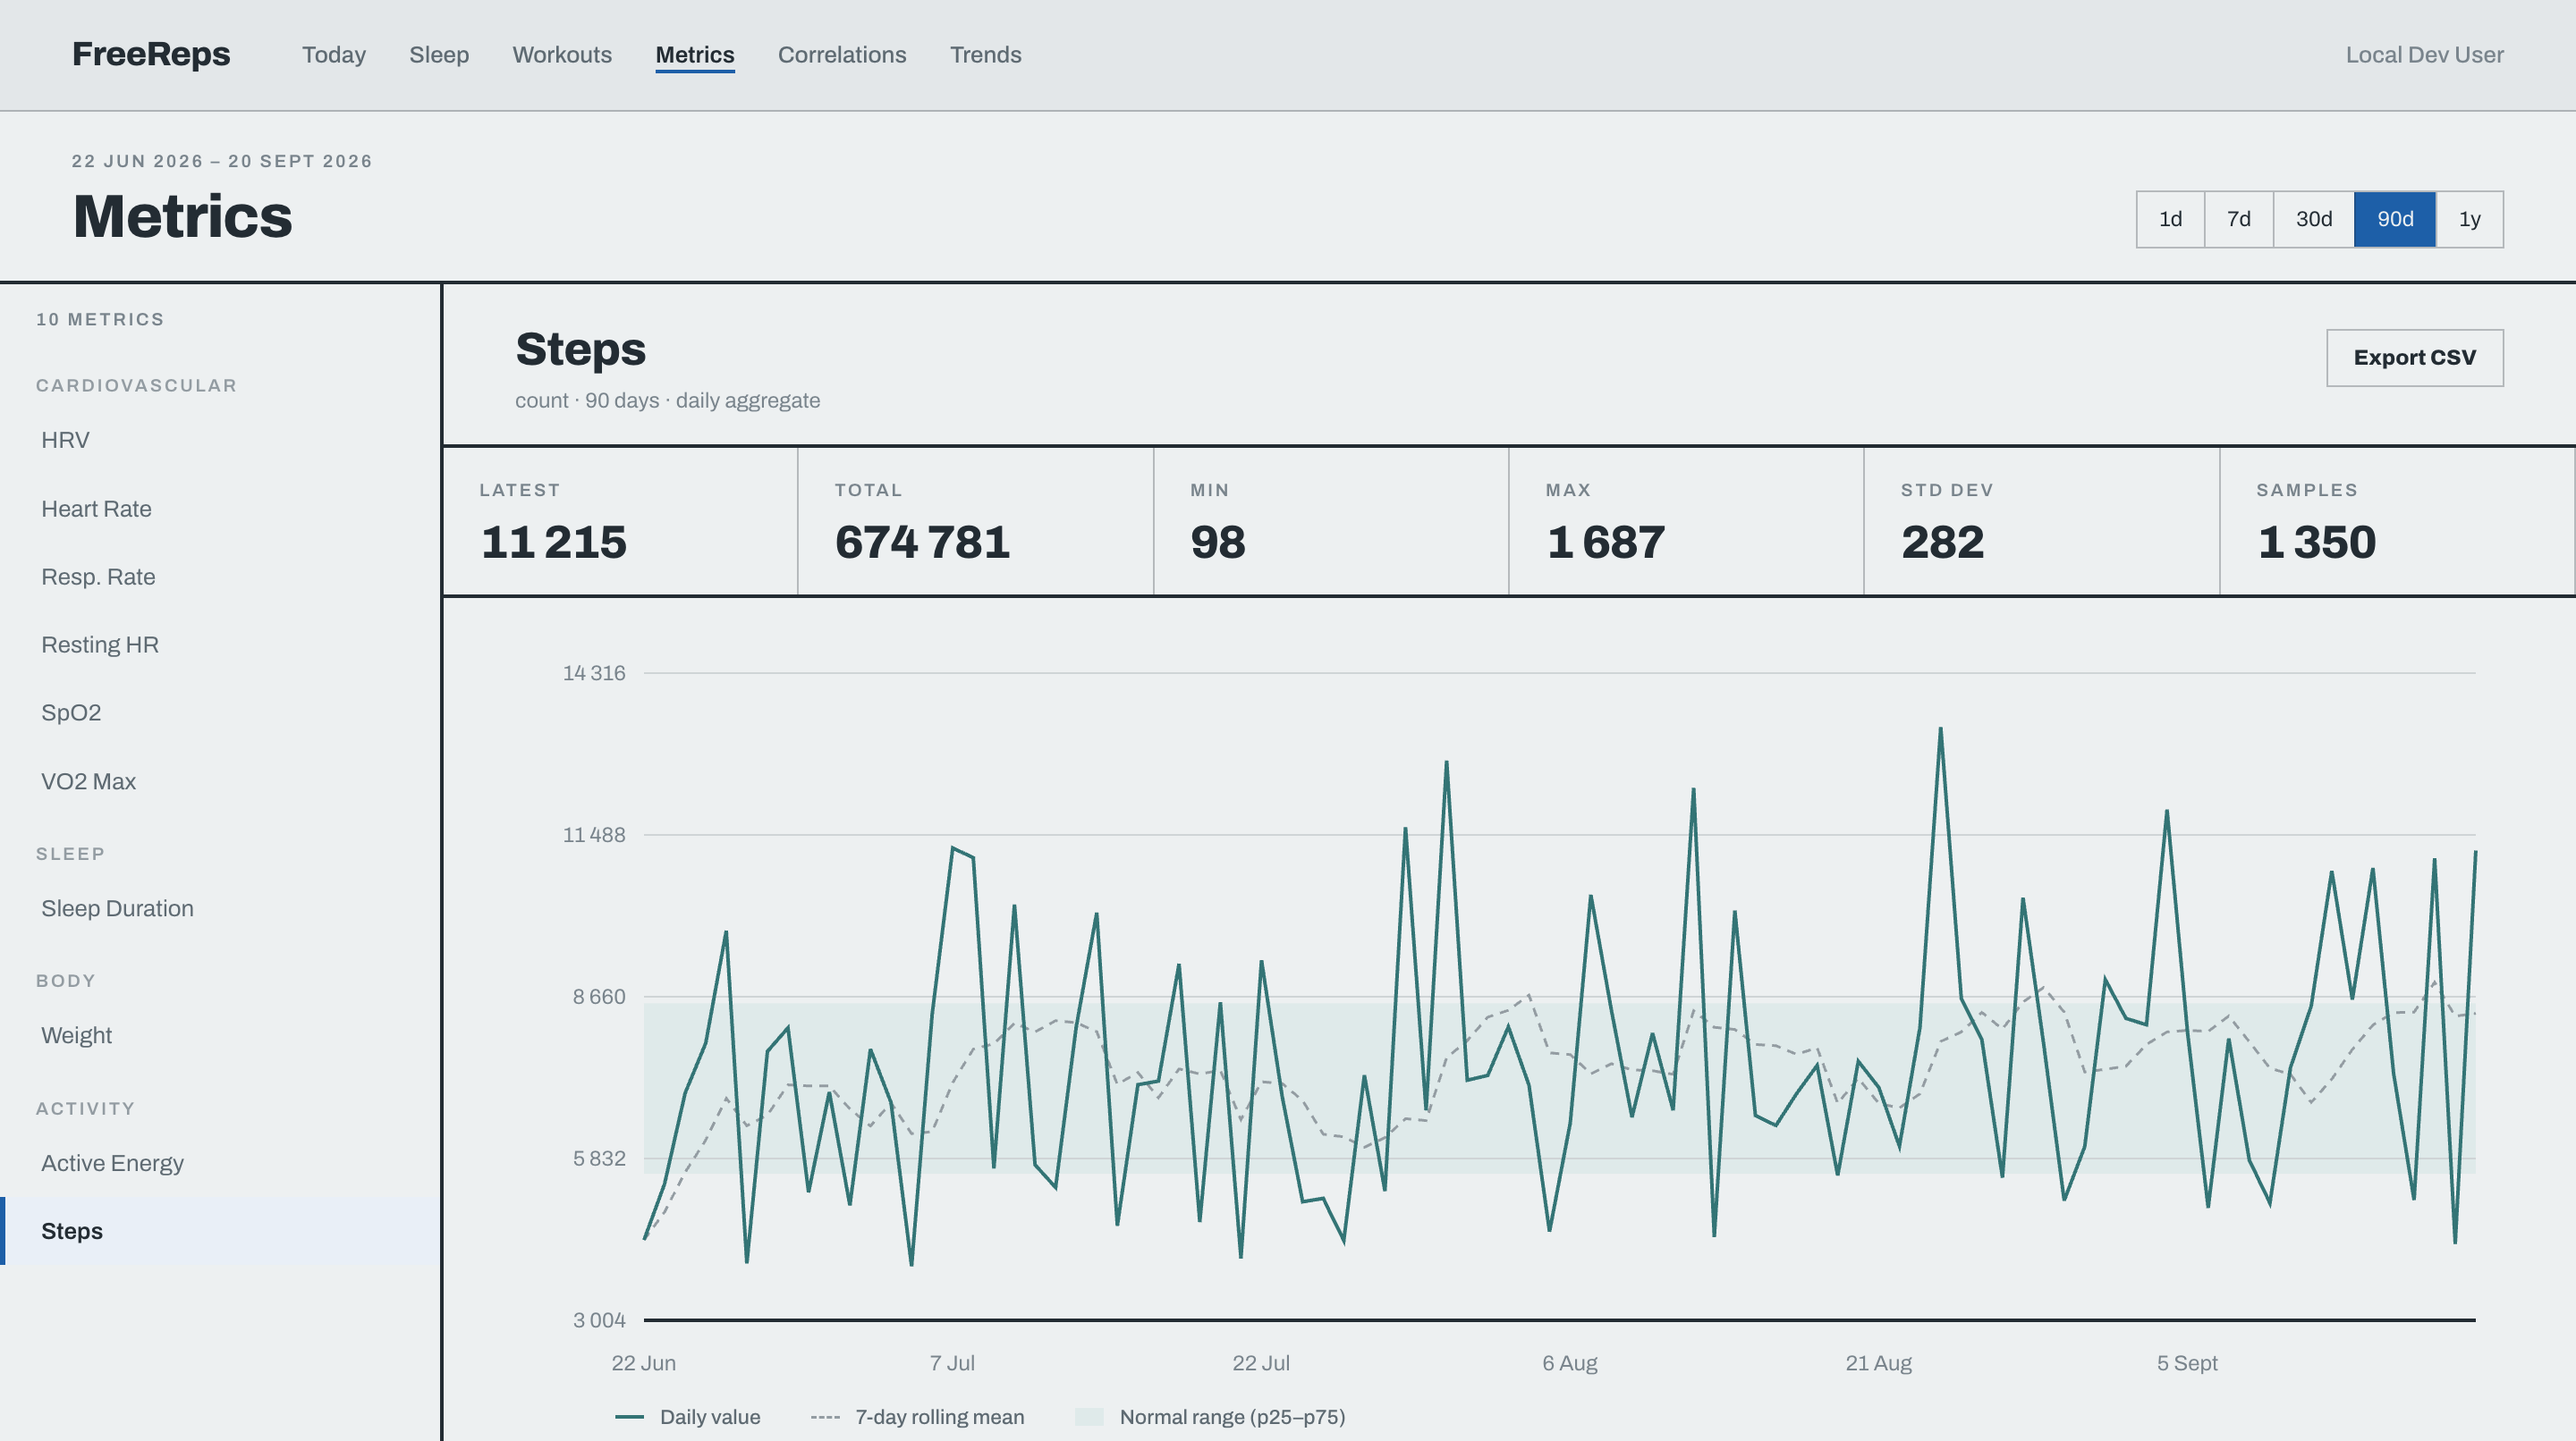
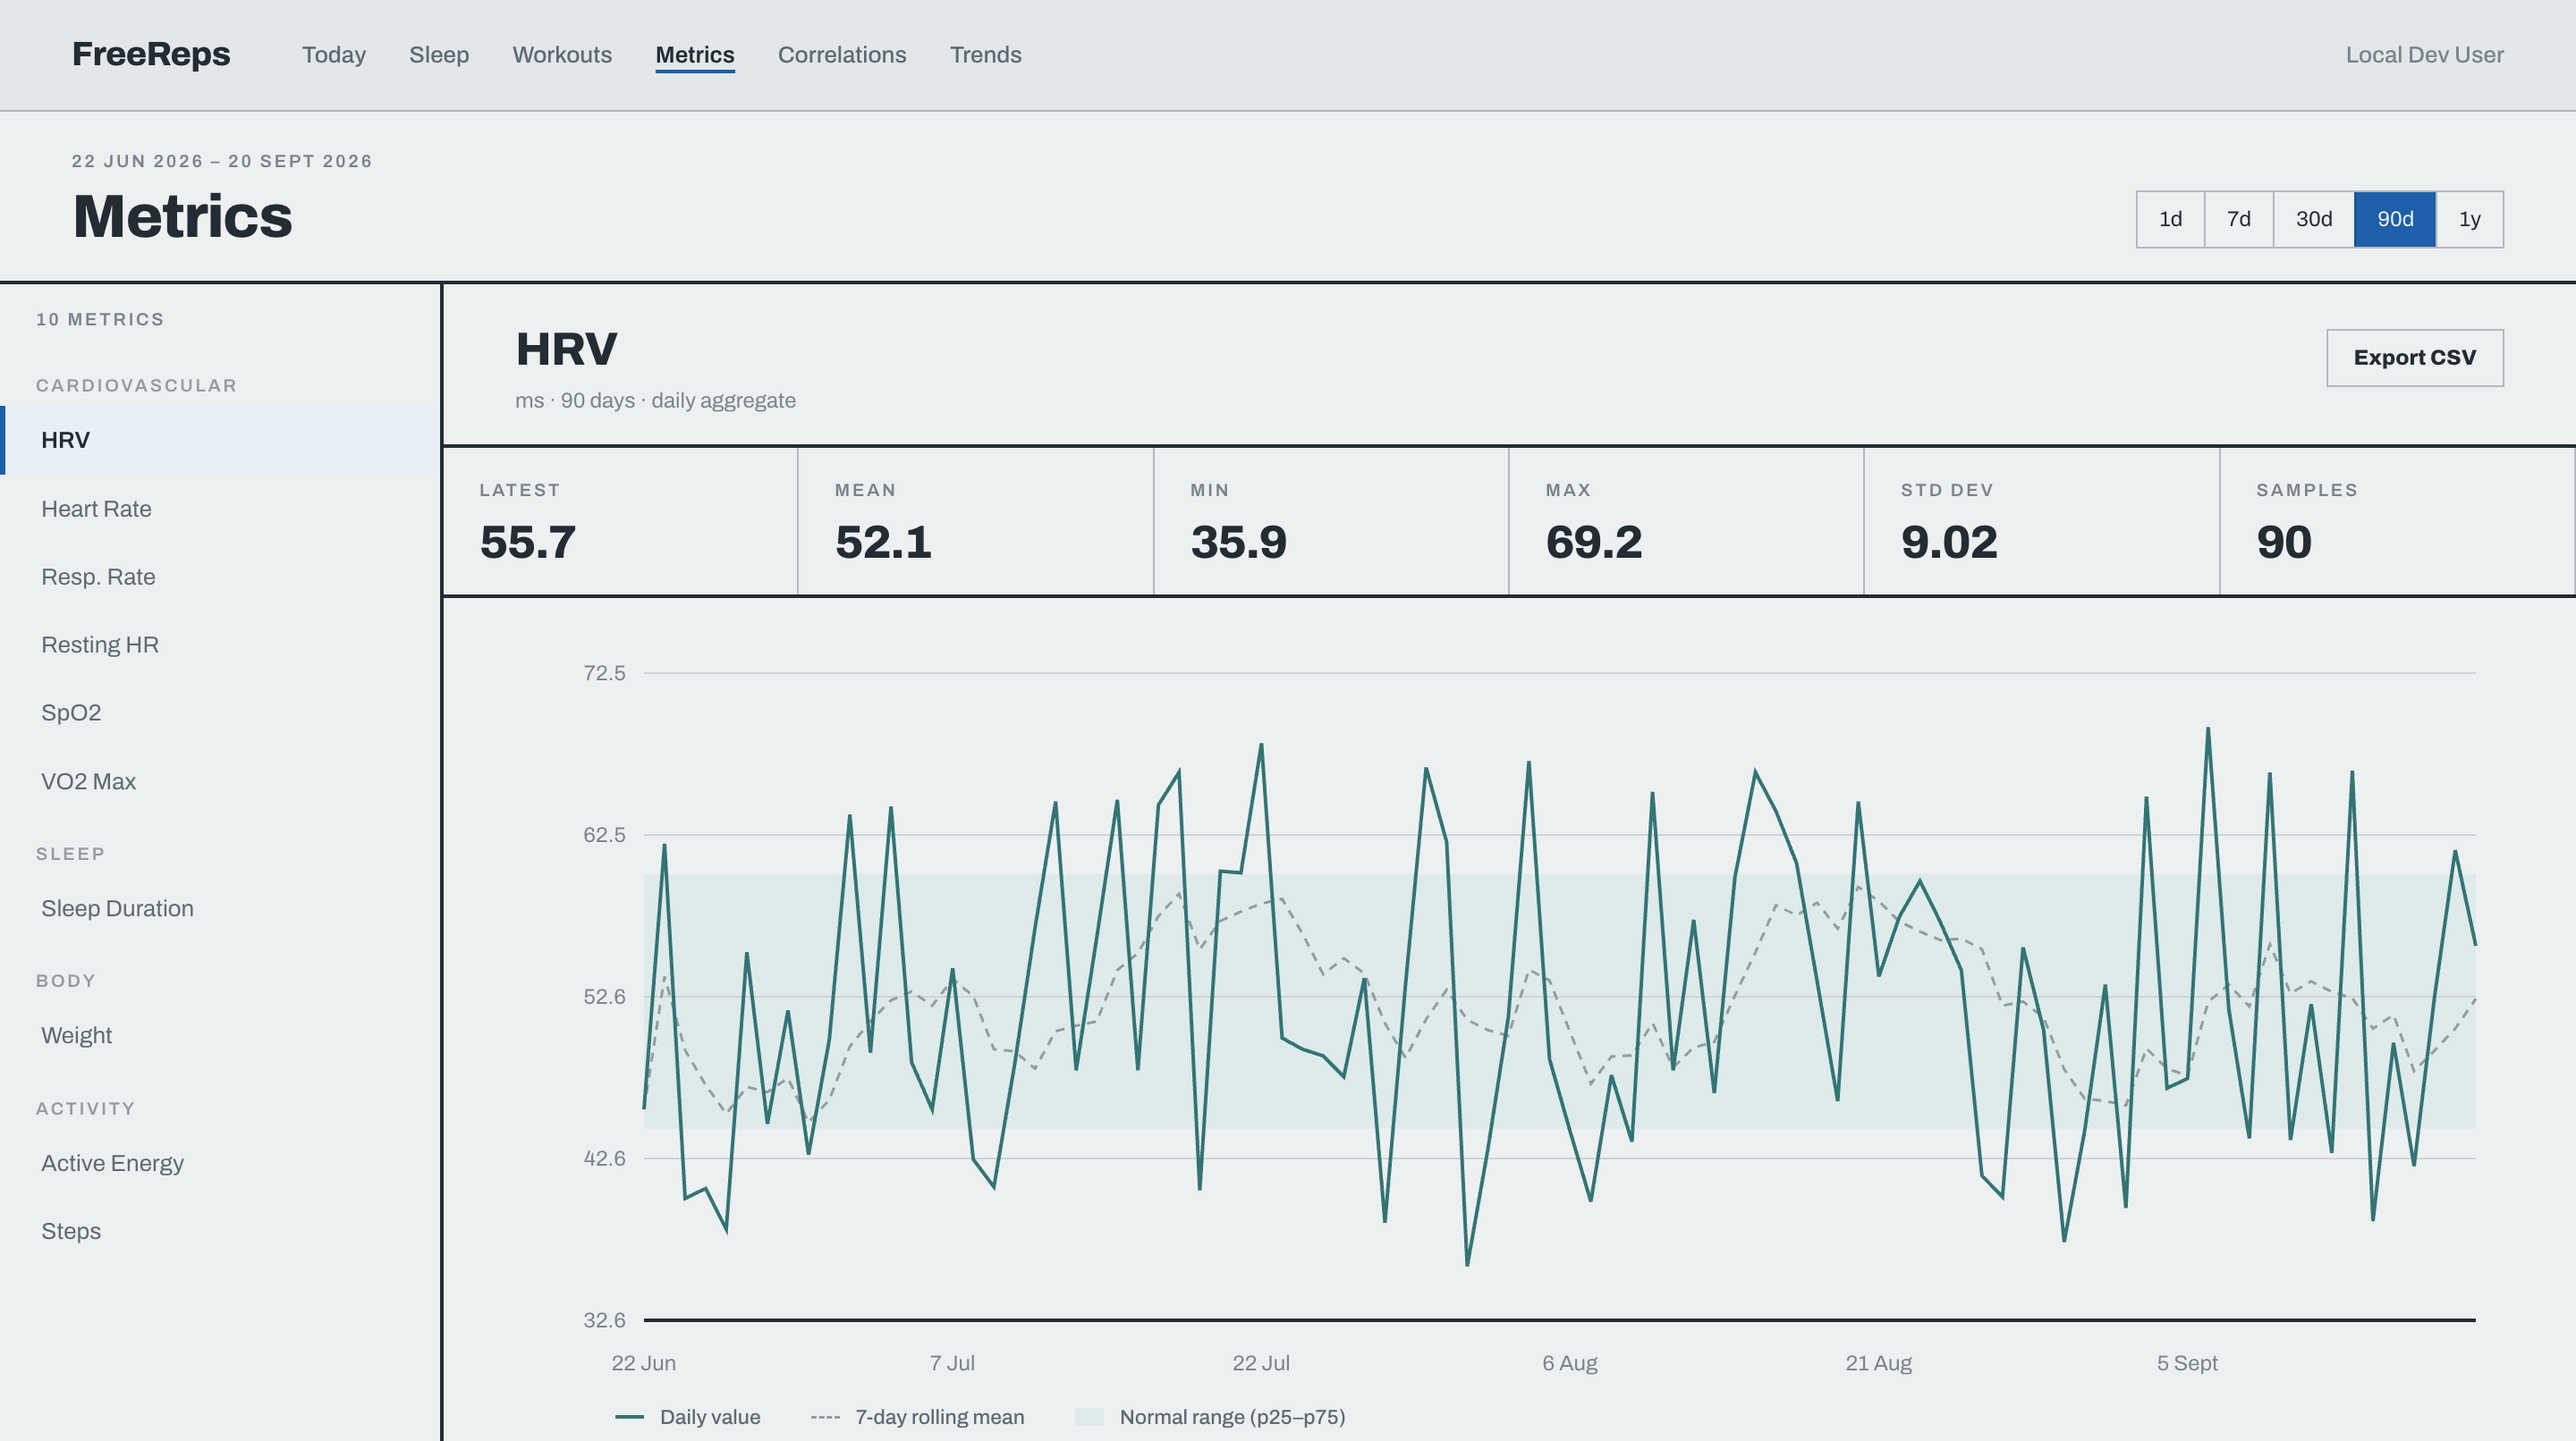
docs: serve the dashboard screenshots in the reader's colour scheme
The site already re-pointed its own colours under prefers-color-scheme, but the
six dashboard captures were light, so a dark reader got a light rectangle on a
dark page. Each one is now a <picture> whose dark source is taken in the app's
dark theme.

Both sets were captured in the same run against the same demo seed, at
1440x806 with devicePixelRatio 2, by setting freereps.theme in localStorage
before the app boots. Four of the six light captures came out byte-identical to
the committed ones, which is what a deterministic demo seed should do; the
dashboard and metrics ones differ in their relative timestamps.

<picture> is not given display:contents. Under that the <source> is hoisted
into the grid as a cell of its own and every second cell stays empty, which is
what the first attempt produced.

claude-mcp.png stays a single image: it is a capture of Claude Desktop, which
this repo cannot re-render in a second theme.

Checked in Chrome at 1280x900 and at 390x844: the dark scheme resolves all six
-dark sources, the light scheme the light ones, the grid stays three columns
and one column respectively with no horizontal overflow, and the lightbox still
opens the variant that is on screen.

Claude-Session: https://claude.ai/code/session_01N92Y5qByPghobRjpGRxvjD

diff --git a/docs/index.html b/docs/index.html
@@ -3,6 +3,7 @@
 <head>
 <meta charset="utf-8">
 <meta name="viewport" content="width=device-width, initial-scale=1">
+<meta name="color-scheme" content="light dark">
 <title>FreeReps - Self-Hosted Health Data Server for Apple Watch &amp; Oura Ring</title>
 <meta name="description" content="Self-hosted health data server for Apple Watch and Oura Ring with web dashboard, correlation explorer, source-priority dedup, and MCP interface for AI assistants.">
 <style>
@@ -48,8 +49,12 @@ a:hover { text-decoration: underline; }
   max-width: 960px; margin: 0 auto; padding: 2rem 1.5rem 4rem;
   display: grid; grid-template-columns: repeat(auto-fit, minmax(280px, 1fr)); gap: 1rem;
 }
+/* The picture element is the grid item, not the img inside it. Under
+   display:contents the <source> is hoisted into the grid as well and takes a
+   cell of its own, which leaves every second cell empty. */
+.screenshots picture { display: block; }
 .screenshots img {
-  width: 100%; border-radius: 12px;
+  display: block; width: 100%; border-radius: 12px;
   border: 1px solid var(--card-border);
 }
 
@@ -124,12 +129,30 @@ footer nav { display: flex; gap: 1.5rem; justify-content: center; margin-bottom:
 <h2 class="section-heading">Web Dashboard</h2>
 <p class="section-sub">Your health data, beautifully visualized.</p>
 <div class="screenshots">
-  <img src="screenshots/dashboard.png" alt="Dashboard showing daily health metrics" loading="lazy">
-  <img src="screenshots/sleep.png" alt="Sleep analysis with stage breakdown" loading="lazy">
-  <img src="screenshots/workouts.png" alt="Workout list with heart rate zones" loading="lazy">
-  <img src="screenshots/correlations.png" alt="Correlation explorer with scatter plot and Pearson r" loading="lazy">
-  <img src="screenshots/metrics.png" alt="Metric explorer with time series charts" loading="lazy">
-  <img src="screenshots/trends.png" alt="Long-term trend analysis" loading="lazy">
+  <picture>
+    <source srcset="screenshots/dashboard-dark.png" media="(prefers-color-scheme: dark)">
+    <img src="screenshots/dashboard.png" alt="Dashboard showing daily health metrics" loading="lazy">
+  </picture>
+  <picture>
+    <source srcset="screenshots/sleep-dark.png" media="(prefers-color-scheme: dark)">
+    <img src="screenshots/sleep.png" alt="Sleep analysis with stage breakdown" loading="lazy">
+  </picture>
+  <picture>
+    <source srcset="screenshots/workouts-dark.png" media="(prefers-color-scheme: dark)">
+    <img src="screenshots/workouts.png" alt="Workout list with heart rate zones" loading="lazy">
+  </picture>
+  <picture>
+    <source srcset="screenshots/correlations-dark.png" media="(prefers-color-scheme: dark)">
+    <img src="screenshots/correlations.png" alt="Correlation explorer with scatter plot and Pearson r" loading="lazy">
+  </picture>
+  <picture>
+    <source srcset="screenshots/metrics-dark.png" media="(prefers-color-scheme: dark)">
+    <img src="screenshots/metrics.png" alt="Metric explorer with time series charts" loading="lazy">
+  </picture>
+  <picture>
+    <source srcset="screenshots/trends-dark.png" media="(prefers-color-scheme: dark)">
+    <img src="screenshots/trends.png" alt="Long-term trend analysis" loading="lazy">
+  </picture>
   <img src="screenshots/claude-mcp.png" alt="Claude analyzing health data via MCP" loading="lazy">
 </div>
 
